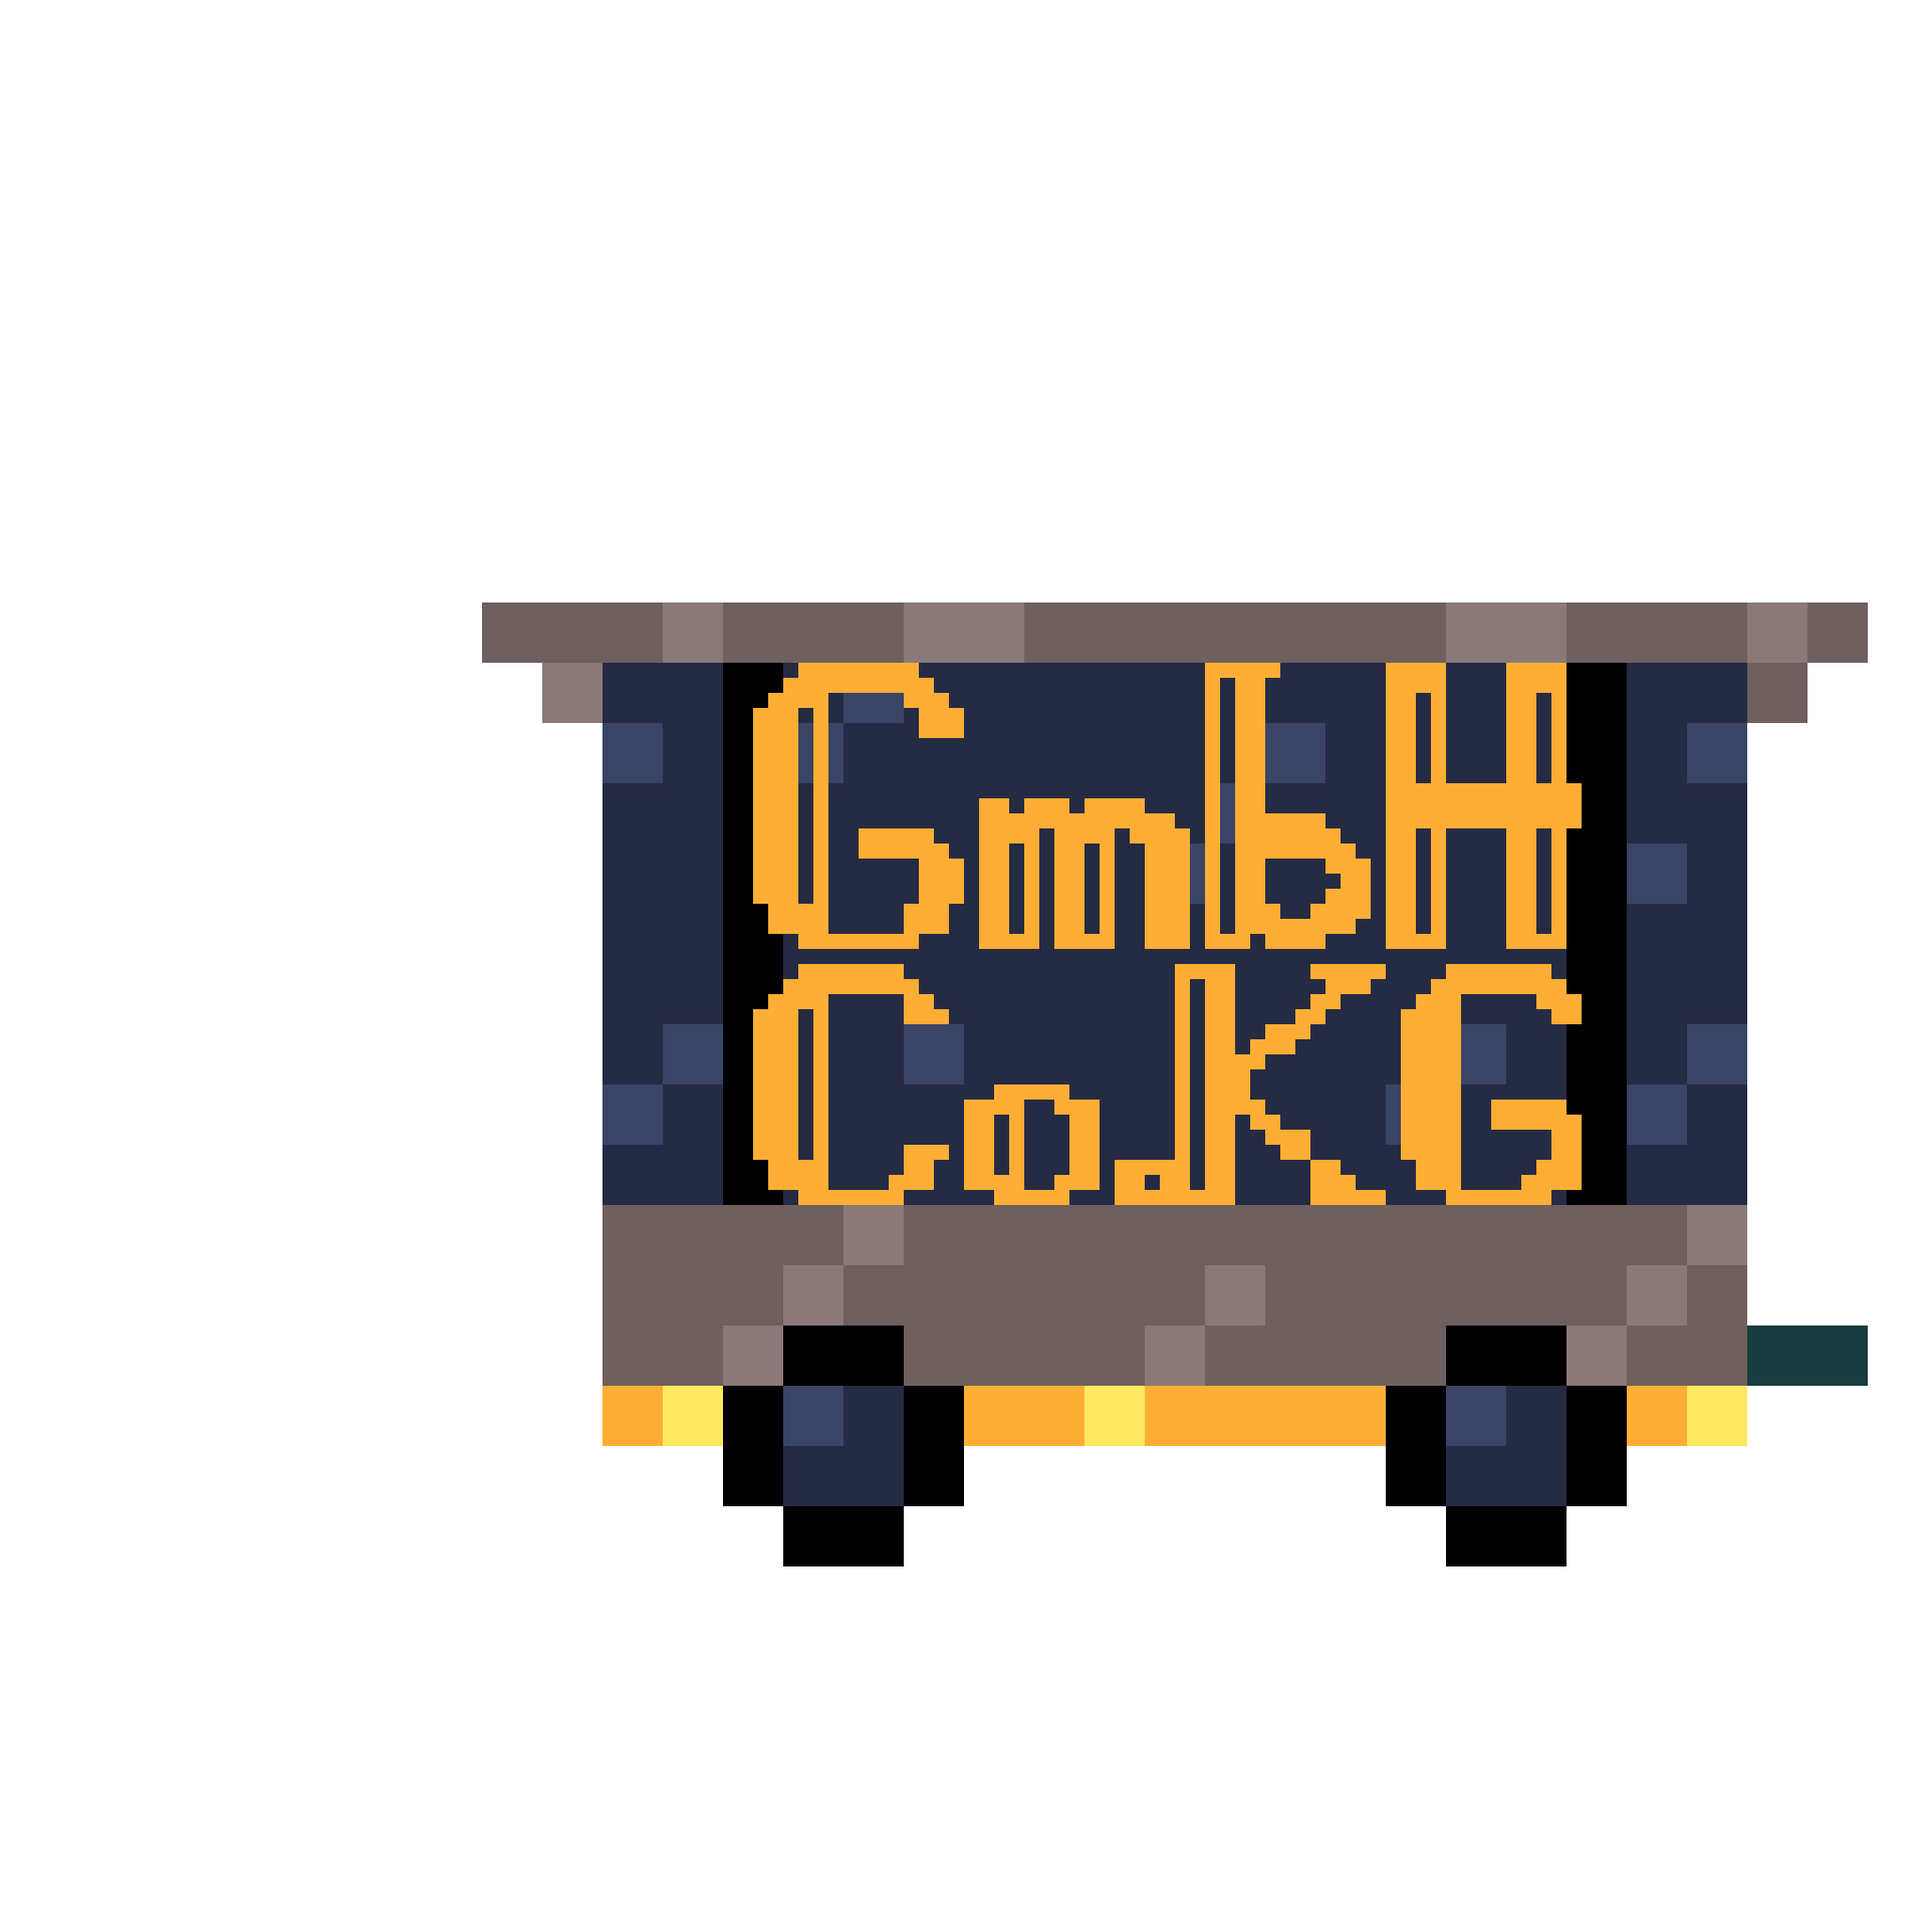
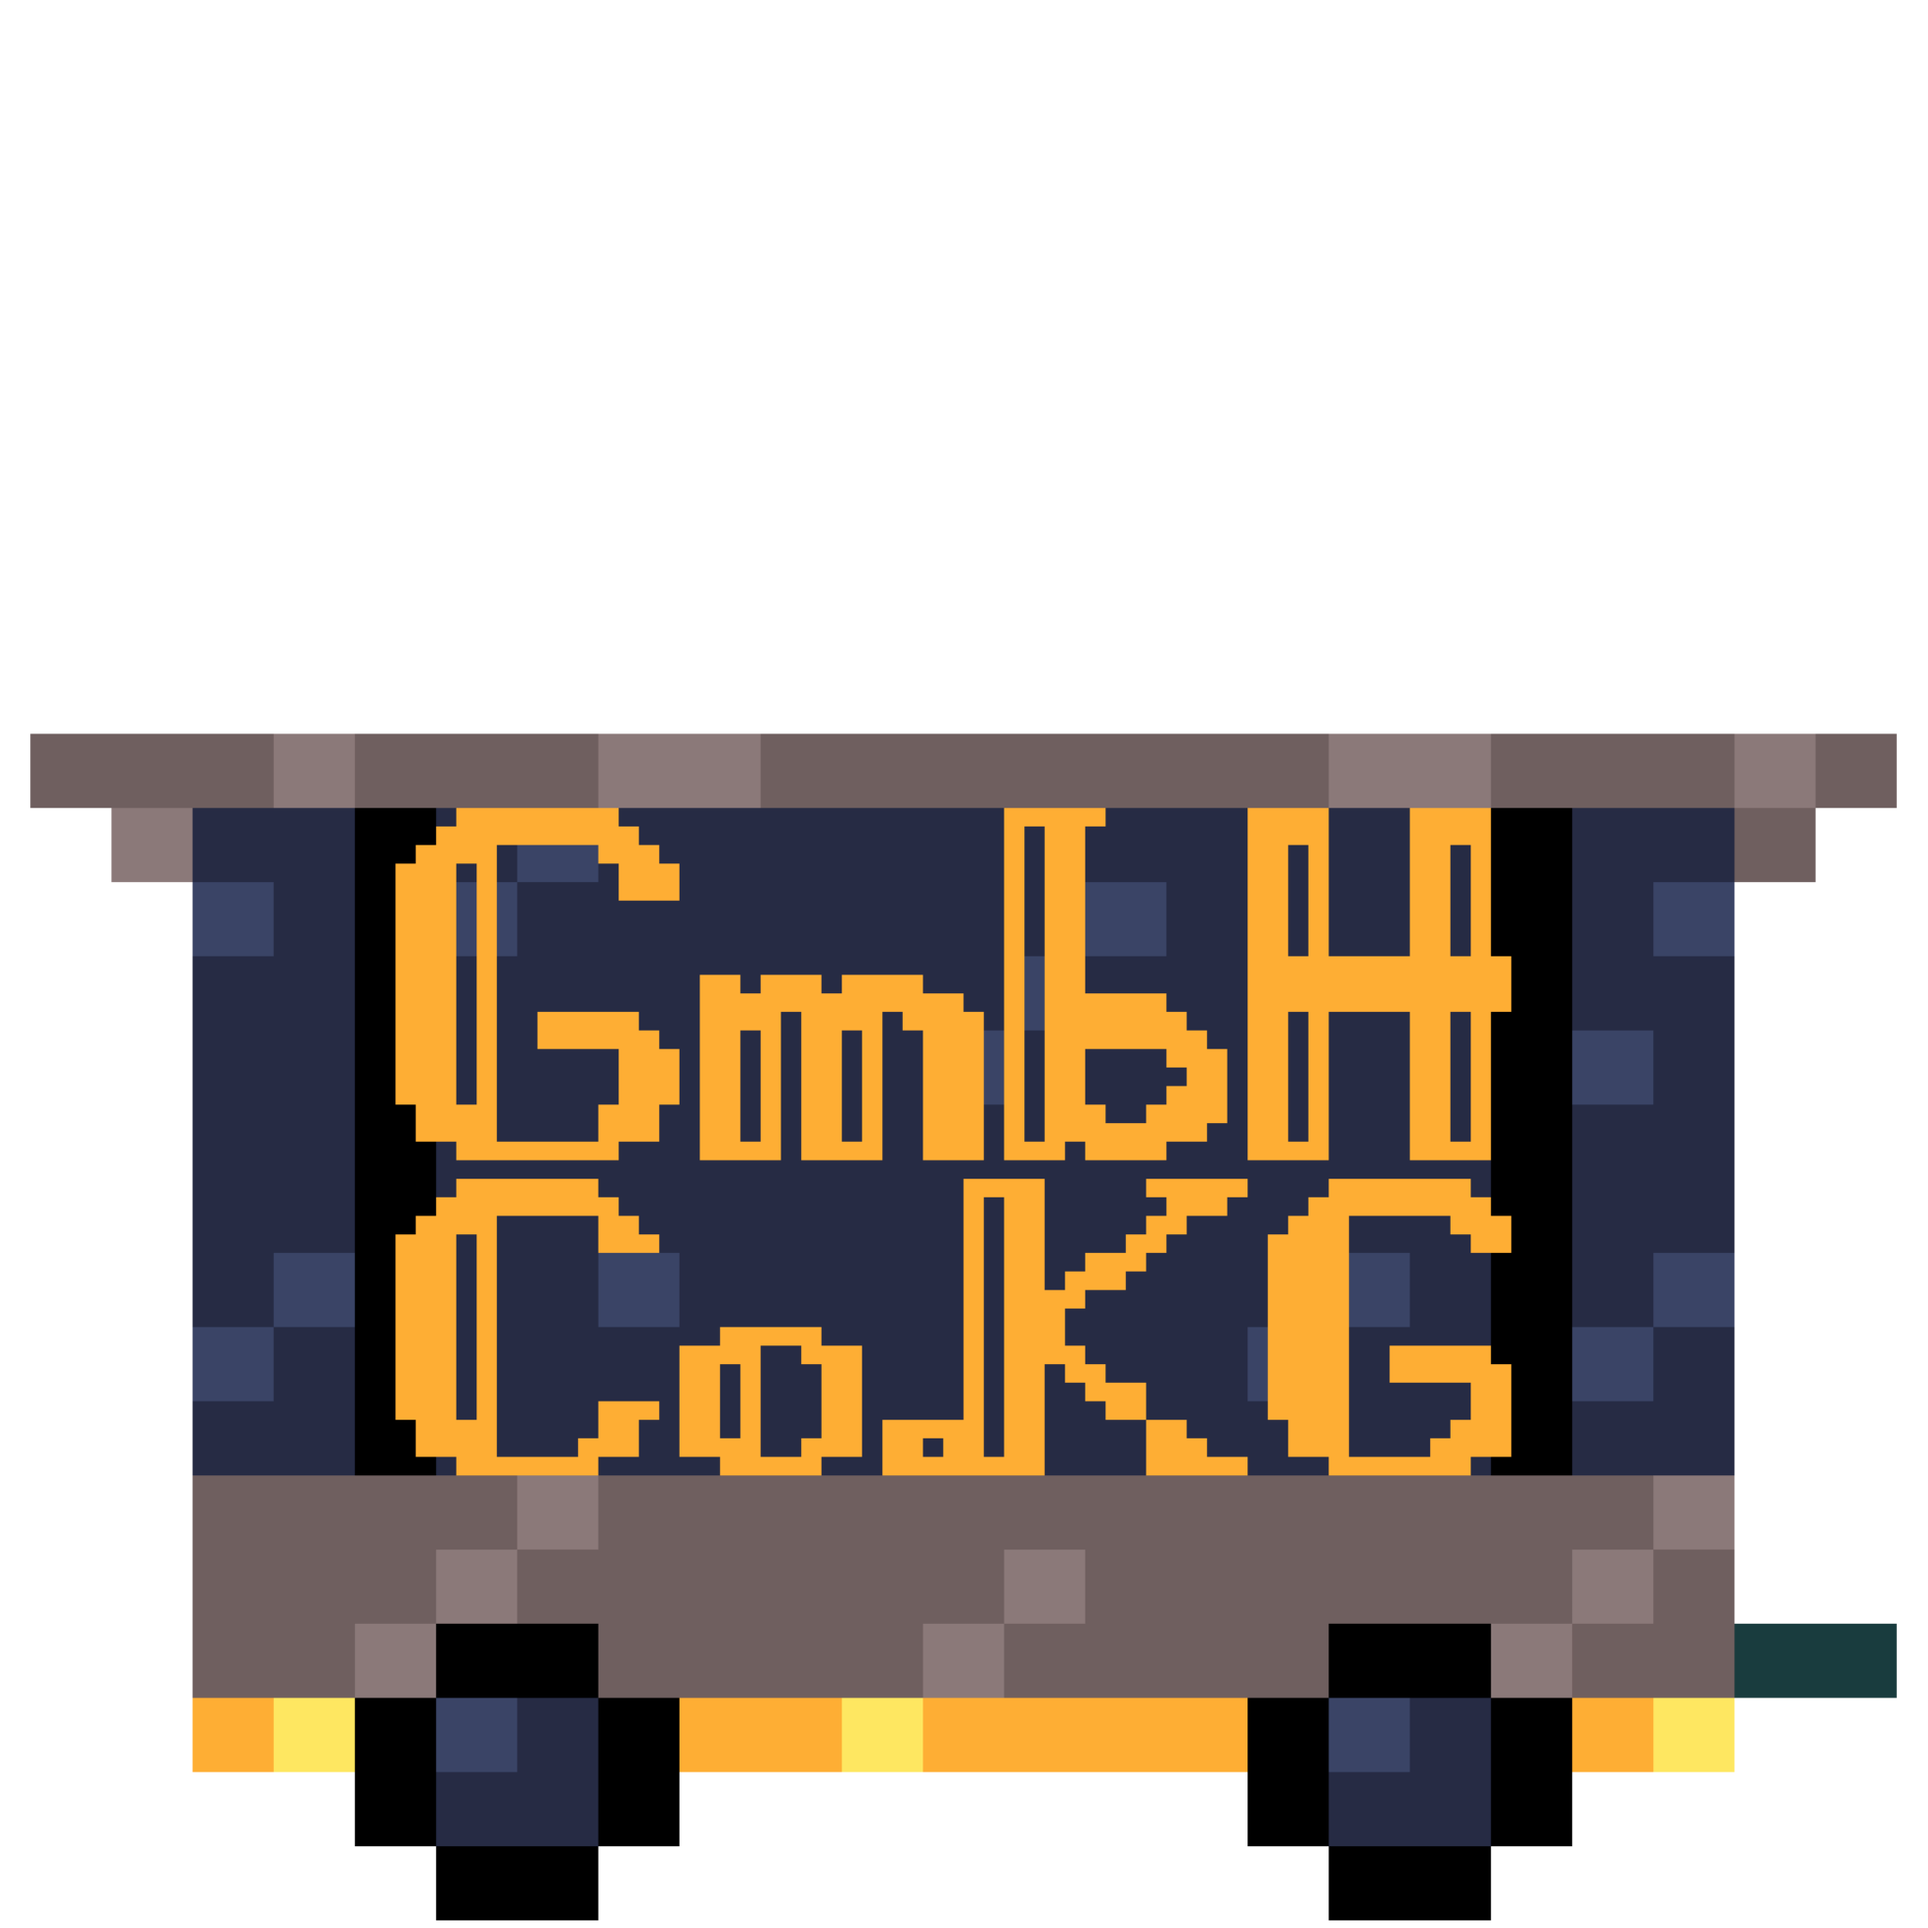
Design + Score

diff --git a/src/routes/game.svelte b/src/routes/game.svelte
@@ -27,7 +27,8 @@
 		type: 'straight' | 'up' | 'down';
 	}
 
-	let lastKey = '';
+	let score = 0
+	let highScore = undefined
 
 	let snakePosition: position = {
 		x: 2,
@@ -153,6 +154,7 @@
 			if (chosenLook !== undefined) {
 				trainLooks.push(chosenLook);
 			}
+			score += 1
 		}
 	}
 
@@ -167,6 +169,7 @@
 		foodPosition = getRandomPosition();
 		draw_board();
 		gameIsRunning = false;
+		score = 0;
 	}
 
 	function moveSnake() {
@@ -242,7 +245,6 @@
 			} else if (key === ' ') {
 				toggleGame();
 			}
-			lastKey = key;
 		}
 	}
 
@@ -267,6 +269,8 @@
 		}
 	}
 
+
+
 	if (browser) {
 		setInterval(update, 350);
 	}
@@ -277,6 +281,7 @@
 <svelte:window on:keydown={keypress} />
 
 <div class="main">
+	<div class="score">Score: {score}     </div>
 	<div class="game-board">
 		{#each grid as row}
 			<div class="row">
@@ -322,8 +327,10 @@
 		flex-direction: column;
 		width: 100vmin;
 		height: 100vmin;
-		background-color: yellowgreen;
+		background-image: url("Fingselvemadebackground.png");
 		justify-content: space-evenly;
+		background-size: 100%;
+
 	}
 
 	.row {
@@ -336,6 +343,9 @@
 		display: flex;
 		justify-content: center;
 		align-items: flex-end;
+		background-image: url('UntitlesSchiene1.png');
+		image-rendering: pixelated;
+		background-size: 100%;
 	}
 
 	img {
@@ -346,7 +356,7 @@
 		position: relative;
 		display: flex;
 		justify-content: center;
-		background-color: rgb(0, 0, 0);
+		background-color: black;
 	}
 
 	.youwintext {
@@ -375,5 +385,16 @@
 
 	.cornerDownFlipped {
 		transform: rotate(-45deg);
+	}
+
+	.score {
+		font-size: 96px;
+		padding: 20px;
+		height: fit-content;
+		color: #FEAE34;
+		background-color: #262B44;
+		border-radius: 10px;
+		border: 5px solid #6F5F5F;
+		font-family: 'Press Start 2P', cursive;
 	}
 </style>

diff --git a/src/routes/index.svelte b/src/routes/index.svelte
@@ -1,8 +1,17 @@
-<h1>Tricky Train</h1>
-<a href="/game"><img class="bild" src="Flagge.jpg" alt=""></a>
+
+<div class="main">
+    <a href="/game"><img class="bild" src="TrickyTrainHeadlineDoneGiF.gif" alt=""></a>
+</div>
 
 <style>
-    .bild {
-        width: 100%;
+
+.main {
+    display: flex;
+    justify-content: center;
+    background-color: white;
+}
+.bild {
+        width: 100vmin;
+        background-image: url('Fingselvemadebackground.png');
     }
 </style>

diff --git a/README.md b/README.md
@@ -1,6 +1,7 @@
 # Tricky Train
 
  Netlify Änderungen --> 
+ - code -r './Tricky Train/'
  - git ac -m 'some text that describes what you changed'
  --> Some text... -> Änderungen beschreiben
  - git push
